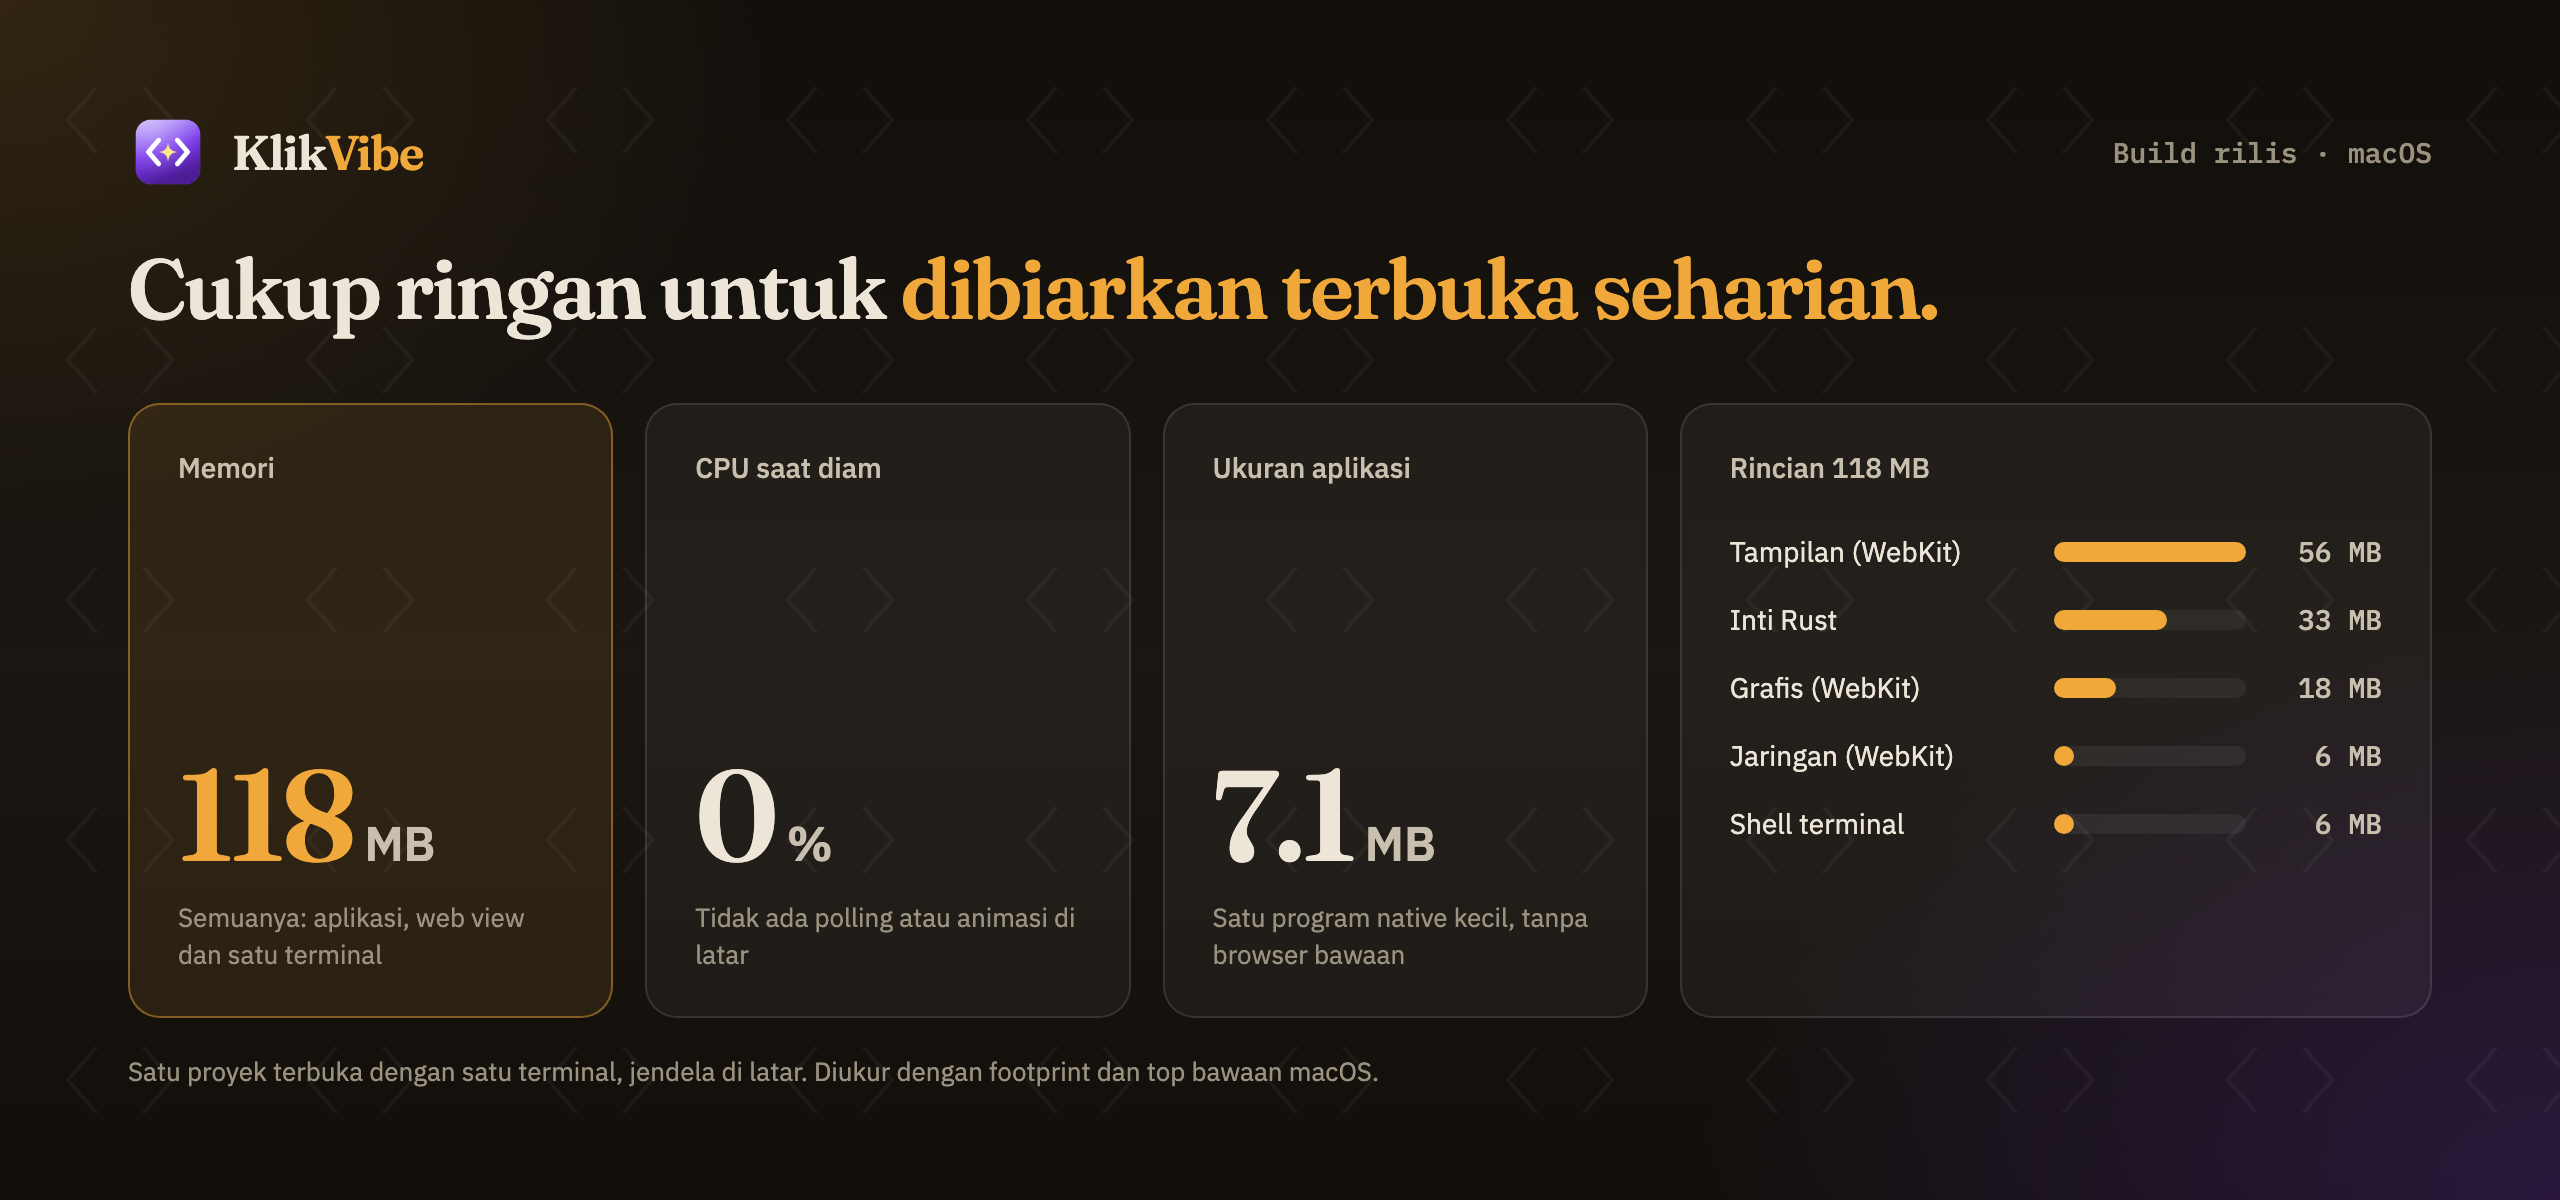
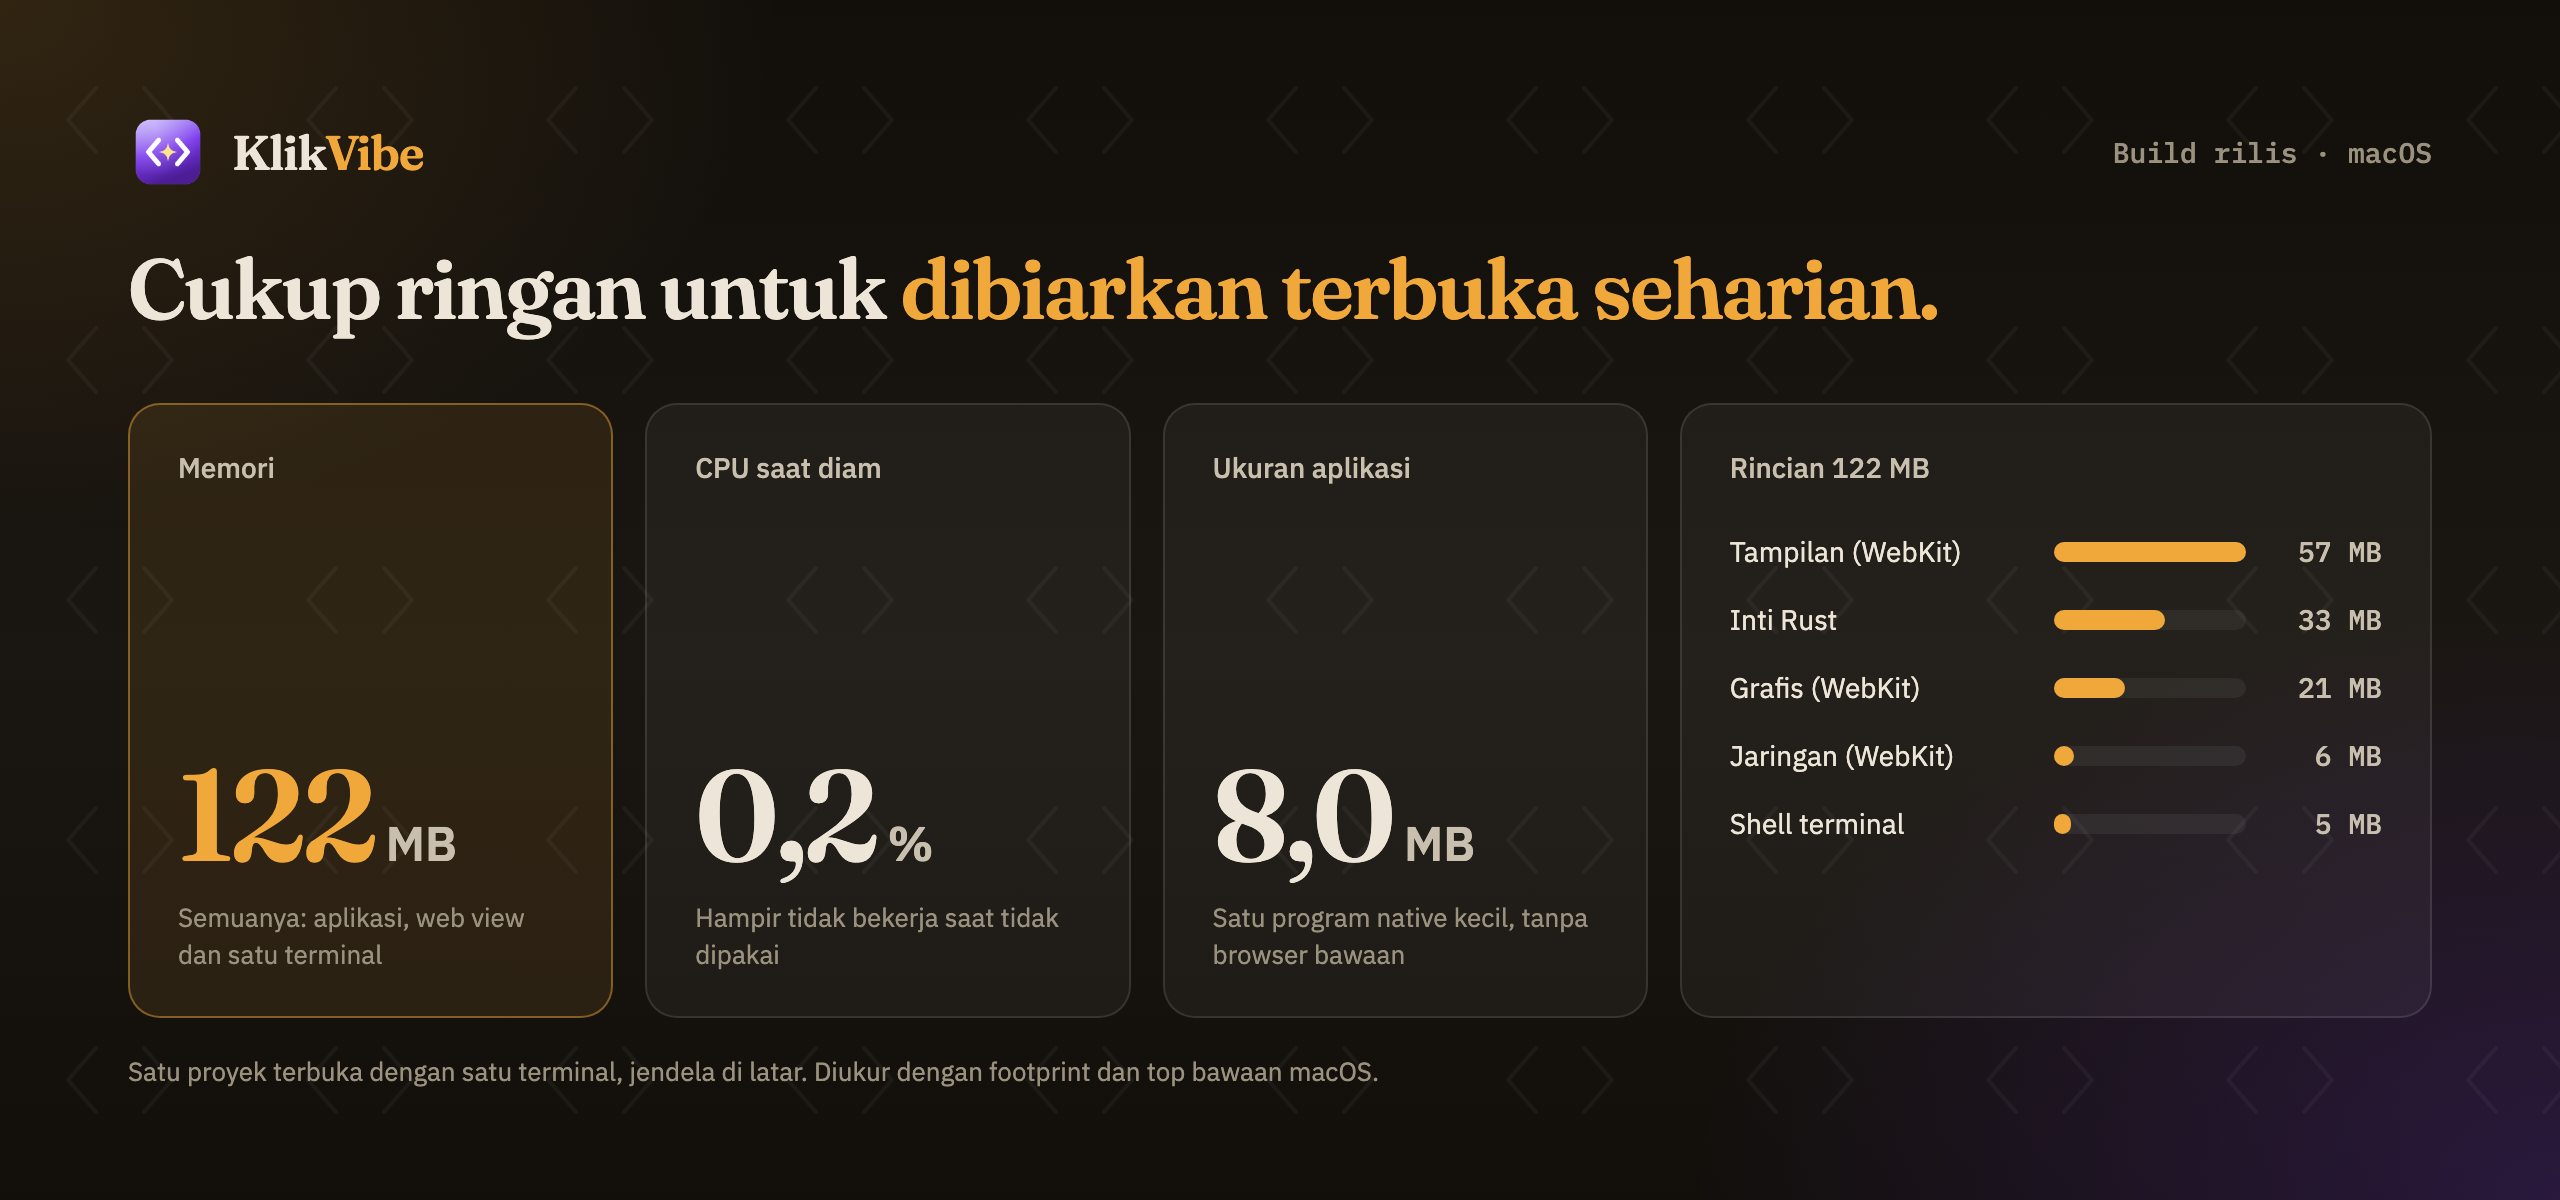
README: performance remeasured
Release build, median of three runs: 122 MB, 0.2% CPU at idle, 8.0 MB
app. The note on the window in front now gives the real cause found by
measuring (a focused text field keeps WebKit redrawing; with the focus
elsewhere the numbers stay near idle), not the terminal cursor blink.
The Indonesian card uses decimal commas.

Changed region(s): [[0.2812, 0.6475, 0.4375, 0.8017], [0.4688, 0.6475, 0.5938, 0.74], [0.0938, 0.6167, 0.1875, 0.74]]

diff --git a/design/promo/performance.html b/design/promo/performance.html
@@ -63,40 +63,42 @@
     </div>
     <h1 id="title"></h1>
     <div class="grid">
-      <div class="tile hero"><div class="label" id="l1"></div><div class="value">118<small>MB</small></div><div class="hint" id="h1"></div></div>
-      <div class="tile"><div class="label" id="l2"></div><div class="value">0<small>%</small></div><div class="hint" id="h2"></div></div>
-      <div class="tile"><div class="label" id="l3"></div><div class="value">7.1<small>MB</small></div><div class="hint" id="h3"></div></div>
+      <div class="tile hero"><div class="label" id="l1"></div><div class="value">122<small>MB</small></div><div class="hint" id="h1"></div></div>
+      <div class="tile"><div class="label" id="l2"></div><div class="value"><span id="cpu"></span><small>%</small></div><div class="hint" id="h2"></div></div>
+      <div class="tile"><div class="label" id="l3"></div><div class="value"><span id="size"></span><small>MB</small></div><div class="hint" id="h3"></div></div>
       <div class="parts"><div class="label" id="l4"></div><div id="rows"></div></div>
     </div>
     <div class="foot" id="foot"></div>
   </div>
 <script>
-  // Measured 2026-11-05 on macOS: release build, one project open, one terminal, no file open, window in the background.
-  const PARTS = [["page", 56], ["core", 33], ["gpu", 18], ["net", 6], ["shell", 6]];
+  // Measured 2026-11-05 on macOS (median of three runs): release build, one project open, one terminal, no file open, window in the background.
+  const PARTS = [["page", 57], ["core", 33], ["gpu", 21], ["net", 6], ["shell", 5]];
   const T = {
     en: {
       eyebrow: "Release build · macOS",
+      cpu: "0.2", size: "8.0",
       title: "Light enough to <b>leave open all day.</b>",
       l1: "Memory", h1: "Everything: app, web view and a terminal",
-      l2: "CPU at idle", h2: "Nothing polls or animates in the background",
+      l2: "CPU at idle", h2: "It barely wakes up while you're not using it",
       l3: "App size", h3: "One small native binary, no bundled browser",
-      l4: "Where the 118 MB goes",
+      l4: "Where the 122 MB goes",
       parts: { page: "Interface (WebKit)", core: "Rust core", gpu: "Graphics (WebKit)", net: "Networking (WebKit)", shell: "Terminal shell" },
       foot: "One project open with one terminal, window in the background. Measured with macOS footprint and top.",
     },
     id: {
       eyebrow: "Build rilis · macOS",
+      cpu: "0,2", size: "8,0",
       title: "Cukup ringan untuk <b>dibiarkan terbuka seharian.</b>",
       l1: "Memori", h1: "Semuanya: aplikasi, web view dan satu terminal",
-      l2: "CPU saat diam", h2: "Tidak ada polling atau animasi di latar",
+      l2: "CPU saat diam", h2: "Hampir tidak bekerja saat tidak dipakai",
       l3: "Ukuran aplikasi", h3: "Satu program native kecil, tanpa browser bawaan",
-      l4: "Rincian 118 MB",
+      l4: "Rincian 122 MB",
       parts: { page: "Tampilan (WebKit)", core: "Inti Rust", gpu: "Grafis (WebKit)", net: "Jaringan (WebKit)", shell: "Shell terminal" },
       foot: "Satu proyek terbuka dengan satu terminal, jendela di latar. Diukur dengan footprint dan top bawaan macOS.",
     },
   };
   const t = T[new URLSearchParams(location.search).get("lang") === "id" ? "id" : "en"];
-  for (const k of ["eyebrow", "l1", "h1", "l2", "h2", "l3", "h3", "l4", "foot"]) document.getElementById(k).textContent = t[k];
+  for (const k of ["eyebrow", "cpu", "size", "l1", "h1", "l2", "h2", "l3", "h3", "l4", "foot"]) document.getElementById(k).textContent = t[k];
   document.getElementById("title").innerHTML = t.title;
   const max = Math.max(...PARTS.map((p) => p[1]));
   document.getElementById("rows").innerHTML = PARTS.map(

diff --git a/README.id.md b/README.id.md
@@ -44,18 +44,18 @@
 ## Performa
 
 <p align="center">
-  <img src="design/performance.id.png" alt="KlikVibe memakai 118 MB memori dan 0% CPU saat diam, dan ukuran aplikasinya 7,1 MB">
+  <img src="design/performance.id.png" alt="KlikVibe memakai 122 MB memori dan 0,2% CPU saat diam, dan ukuran aplikasinya 8,0 MB">
 </p>
 
-Diukur pada build rilis macOS dengan satu proyek dan satu terminal terbuka, menjumlahkan semua proses yang dijalankan KlikVibe: aplikasinya, tiga proses pembantu WebKit, dan shell.
+Diukur pada build rilis macOS dengan satu proyek dan satu terminal terbuka, menjumlahkan semua proses yang dijalankan KlikVibe: aplikasinya, tiga proses pembantu WebKit, dan shell (median dari tiga kali pengukuran).
 
 | | |
 |---|---|
-| Memori | **118 MB** (tampilan 56, inti Rust 33, grafis 18, jaringan 6, shell 6) |
-| CPU saat diam | **0%** |
-| Ukuran aplikasi | **7,1 MB** |
+| Memori | **122 MB** (tampilan 57, inti Rust 33, grafis 21, jaringan 6, shell 5) |
+| CPU saat diam | **0,2%** |
+| Ukuran aplikasi | **8,0 MB** |
 
-Saat jendela di depan dan terminal sedang fokus, proses grafis naik menjadi sekitar 220 MB dan CPU sekitar 3% karena kursor terminal berkedip. Agen yang Anda jalankan di terminal memakai memorinya sendiri di luar angka ini. Untuk mengukurnya sendiri, jalankan `footprint -p <pid>` pada proses `klikvibe` dan proses pembantu `com.apple.WebKit.*` yang dijalankannya.
+Saat jendela di depan dan terminal sedang menerima ketikan (fokus), proses grafis naik menjadi sekitar 260 MB dan CPU sekitar 3–4%: WebKit terus menggambar ulang selama ada kolom teks yang fokus. Kalau fokusnya di tempat lain, angkanya tetap dekat dengan angka di atas. Agen yang Anda jalankan di terminal memakai memorinya sendiri di luar angka ini. Untuk mengukurnya sendiri, jalankan `footprint -p <pid>` pada proses `klikvibe` dan proses pembantu `com.apple.WebKit.*` yang dijalankannya.
 
 ## Instal
 

diff --git a/README.md b/README.md
@@ -44,18 +44,18 @@
 ## Performance
 
 <p align="center">
-  <img src="design/performance.png" alt="KlikVibe uses 118 MB of memory and 0% CPU at idle, and the app is 7.1 MB">
+  <img src="design/performance.png" alt="KlikVibe uses 122 MB of memory and 0.2% CPU at idle, and the app is 8.0 MB">
 </p>
 
-Measured on the macOS release build with one project and one terminal open, adding up every process KlikVibe runs: the app, its three WebKit helpers and the shell.
+Measured on the macOS release build with one project and one terminal open, adding up every process KlikVibe runs: the app, its three WebKit helpers and the shell (median of three runs).
 
 | | |
 |---|---|
-| Memory | **118 MB** (interface 56, Rust core 33, graphics 18, networking 6, shell 6) |
-| CPU at idle | **0%** |
-| App size | **7.1 MB** |
+| Memory | **122 MB** (interface 57, Rust core 33, graphics 21, networking 6, shell 5) |
+| CPU at idle | **0.2%** |
+| App size | **8.0 MB** |
 
-While the window is in front with the terminal focused, the graphics process grows to about 220 MB and CPU sits around 3% as the terminal cursor blinks. An agent you run in the terminal uses its own memory on top. To measure it yourself, run `footprint -p <pid>` on the `klikvibe` process and the `com.apple.WebKit.*` helpers it starts.
+While the window is in front and the terminal has the keyboard focus, the graphics process grows to about 260 MB and CPU sits around 3–4%: WebKit keeps redrawing while a text field is focused. With the focus elsewhere it stays near the numbers above. An agent you run in the terminal uses its own memory on top. To measure it yourself, run `footprint -p <pid>` on the `klikvibe` process and the `com.apple.WebKit.*` helpers it starts.
 
 ## Install
 
